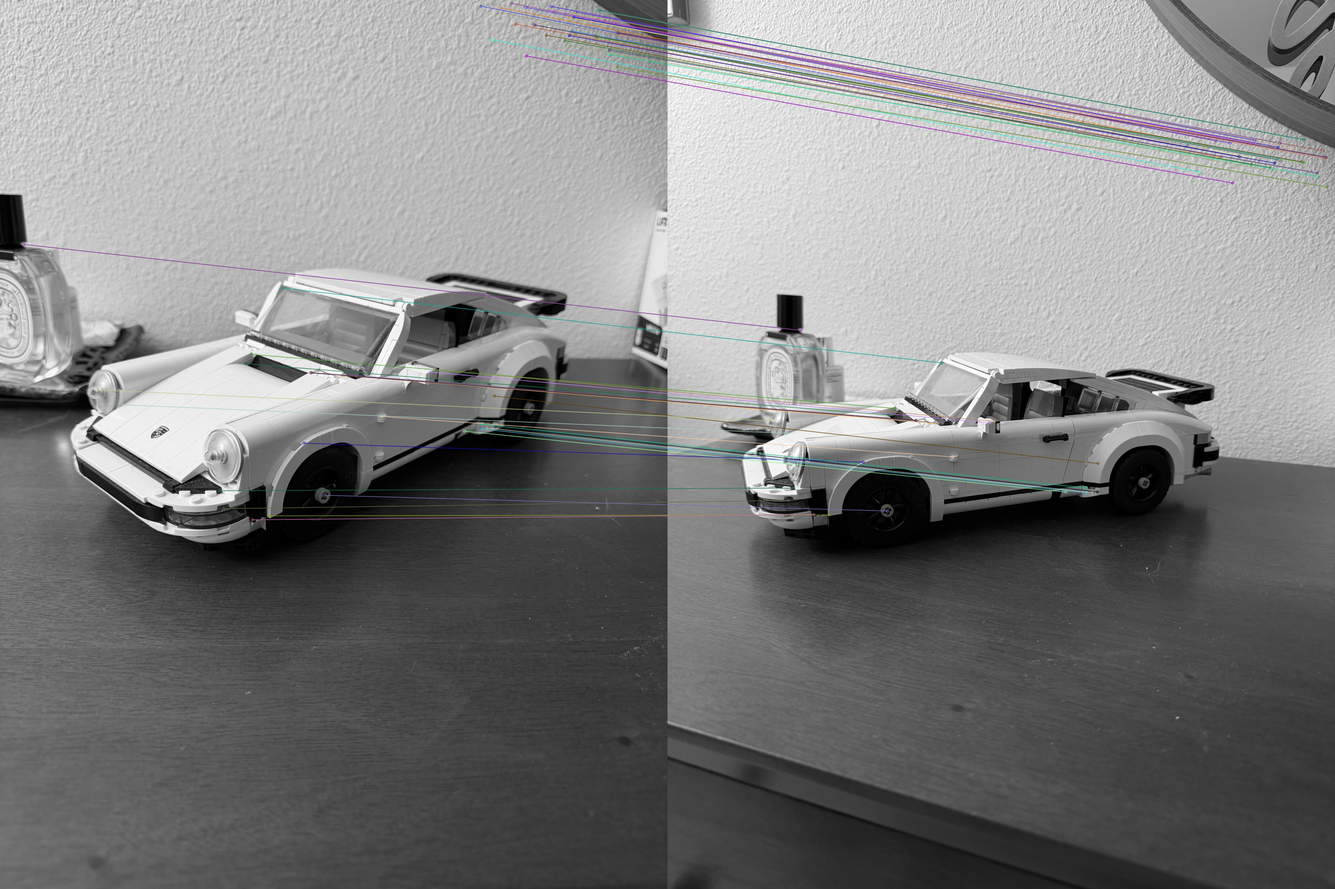
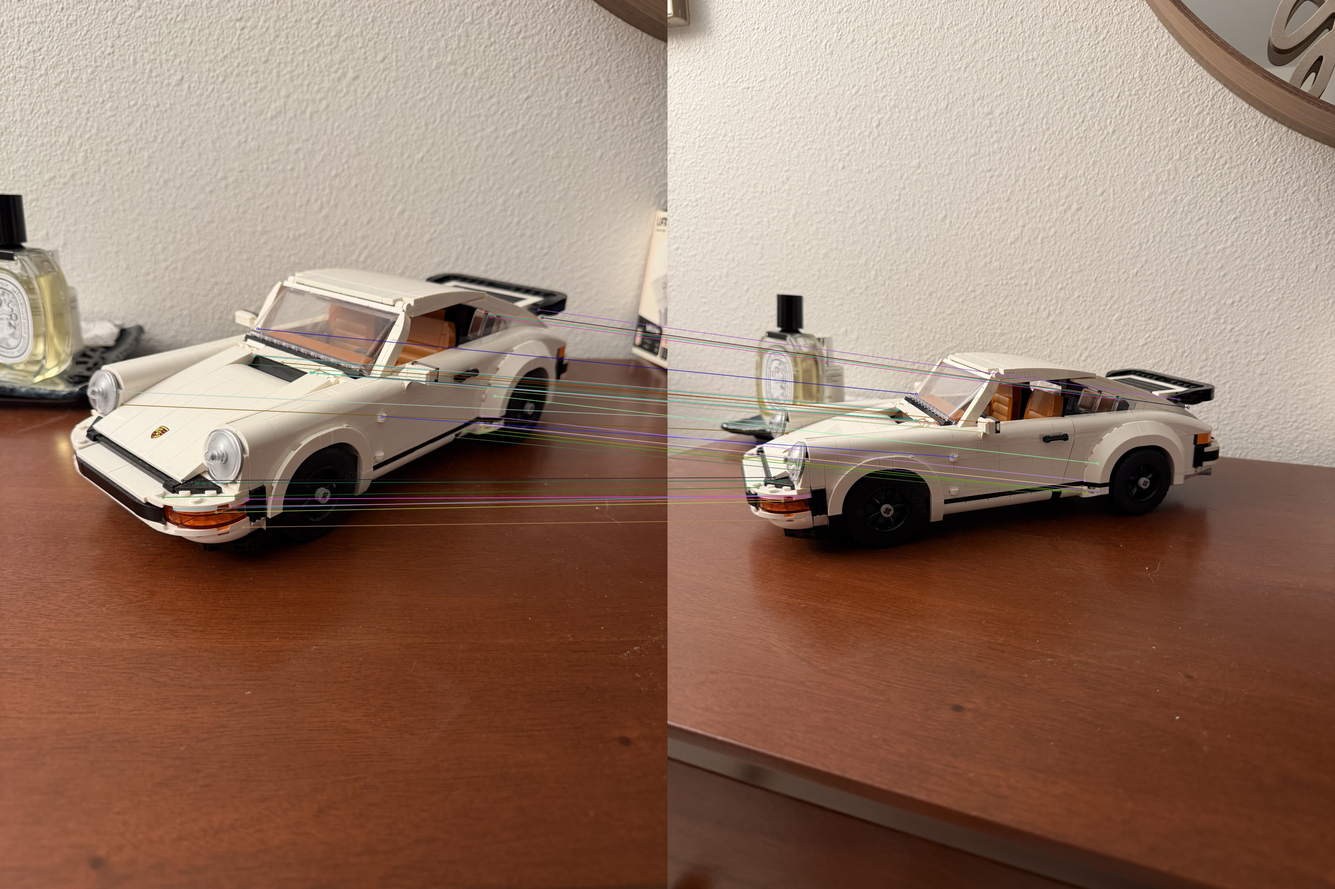
scaled down photos for processing time and refined parameters for tighter tolerances

diff --git a/src/feature_utils.cpp b/src/feature_utils.cpp
@@ -21,14 +21,46 @@ namespace code {
         cv::Mat& descriptors) {
         detector_->detectAndCompute(image, cv::noArray(), keypoints, descriptors);
 
-        // Sort by response (feature strength) and keep the best
+        // Apply spatial weighting to prioritize features in regions of interest
+        // This helps focus on foreground objects (like cars) rather than background (like walls)
         if (keypoints.size() > static_cast<size_t>(config_.max_features)) {
-            // Create indices sorted by response (descending)
+            float img_height = static_cast<float>(image.rows);
+            float img_width = static_cast<float>(image.cols);
+            float center_x = img_width * 0.5f;
+
+            // Compute weighted scores for each keypoint
+            std::vector<float> weighted_scores(keypoints.size());
+            for (size_t i = 0; i < keypoints.size(); ++i) {
+                const cv::KeyPoint& kp = keypoints[i];
+
+                // Vertical position weight: prioritize center and lower regions
+                // Upper 30% of image gets reduced weight (0.3x)
+                // Middle 40% gets full weight (1.0x)
+                // Lower 30% gets boosted weight (1.5x)
+                float vertical_weight = 1.0f;
+                float y_ratio = kp.pt.y / img_height;
+                if (y_ratio < 0.3f) {
+                    vertical_weight = 0.3f;  // Upper region (background/wall)
+                } else if (y_ratio < 0.7f) {
+                    vertical_weight = 1.0f;  // Middle region
+                } else {
+                    vertical_weight = 1.5f;  // Lower region (foreground objects)
+                }
+
+                // Horizontal position weight: slightly prioritize center
+                float dx = std::abs(kp.pt.x - center_x) / (img_width * 0.5f);
+                float horizontal_weight = 1.0f - 0.2f * dx;  // Center=1.0, edges=0.8
+
+                // Combined weighted score
+                weighted_scores[i] = kp.response * vertical_weight * horizontal_weight;
+            }
+
+            // Create indices sorted by weighted score (descending)
             std::vector<size_t> indices(keypoints.size());
             std::iota(indices.begin(), indices.end(), 0);
             std::sort(indices.begin(), indices.end(),
-                [&keypoints](size_t a, size_t b) {
-                    return keypoints[a].response > keypoints[b].response;
+                [&weighted_scores](size_t a, size_t b) {
+                    return weighted_scores[a] > weighted_scores[b];
                 });
 
             // Keep only the strongest features

diff --git a/src/main.cpp b/src/main.cpp
@@ -20,8 +20,13 @@ int main(int argc, char** argv) {
 
         // Load images
         code::logInfo("Loading images...");
-        cv::Mat img1 = cv::imread(argv[1], cv::IMREAD_GRAYSCALE);
-        cv::Mat img2 = cv::imread(argv[2], cv::IMREAD_GRAYSCALE);
+        cv::Mat img1_color = cv::imread(argv[1], cv::IMREAD_COLOR);
+        cv::Mat img2_color = cv::imread(argv[2], cv::IMREAD_COLOR);
+
+        // Convert to grayscale for SIFT (SIFT uses intensity gradients)
+        cv::Mat img1, img2;
+        cv::cvtColor(img1_color, img1, cv::COLOR_BGR2GRAY);
+        cv::cvtColor(img2_color, img2, cv::COLOR_BGR2GRAY);
 
         if (img1.empty() || img2.empty()) {
             code::logError("Cannot read images. Check file paths.");
@@ -39,11 +44,13 @@ int main(int argc, char** argv) {
         if (scale1 > max_scale) {
             double factor = max_scale / scale1;
             cv::resize(img1, img1, cv::Size(), factor, factor, cv::INTER_AREA);
+            cv::resize(img1_color, img1_color, cv::Size(), factor, factor, cv::INTER_AREA);
             code::logInfo("Resized image 1 to: " + std::to_string(img1.cols) + "x" + std::to_string(img1.rows));
         }
         if (scale2 > max_scale) {
             double factor = max_scale / scale2;
             cv::resize(img2, img2, cv::Size(), factor, factor, cv::INTER_AREA);
+            cv::resize(img2_color, img2_color, cv::Size(), factor, factor, cv::INTER_AREA);
             code::logInfo("Resized image 2 to: " + std::to_string(img2.cols) + "x" + std::to_string(img2.rows));
         }
 
@@ -100,7 +107,8 @@ int main(int argc, char** argv) {
             }
 
             cv::Mat img_matches;
-            cv::drawMatches(img1, kpts1, img2, kpts2, cv_matches, img_matches,
+            // Draw matches on color images for better visualization
+            cv::drawMatches(img1_color, kpts1, img2_color, kpts2, cv_matches, img_matches,
                 cv::Scalar::all(-1), cv::Scalar::all(-1),
                 std::vector<char>(), cv::DrawMatchesFlags::NOT_DRAW_SINGLE_POINTS);
 

diff --git a/include/config.h b/include/config.h
@@ -4,7 +4,7 @@ namespace code {
 
     struct Config {
         // Feature detection (A-SIFT)
-        int max_features = 3000;           // More features for better coverage
+        int max_features = 2000;           // Balanced for speed and coverage
         float contrast_threshold = 0.02f;  // Even lower for more candidates
         float edge_threshold = 15.0f;      // Higher to reject edge-like features
         float sigma = 1.6f;
@@ -19,22 +19,22 @@ namespace code {
         float final_threshold = 0.80f;    // Balanced for quality matches     
 
         // Bilateral clustering (Sec 2.2)
-        int num_clusters = 150;           // More clusters for finer detail
+        int num_clusters = 150;           // More clusters for finer detail (keeps wall suppression)
         double spatial_sigma = 1.5;       // Tighter spatial grouping (normalized space)
         double descriptor_sigma = 0.4;    // Tighter descriptor grouping
 
         // Coherence regression (Sec 3)
         double lambda = 0.5;              // Less regularization for more flexibility
         double huber_epsilon = 0.5;       // Larger for robustness to outliers
-        int max_iterations = 150;         // More iterations for convergence
-        double function_tolerance = 1e-7;
+        int max_iterations = 50;          // Faster convergence (reduced from 150)
+        double function_tolerance = 1e-6; // Slightly relaxed for speed
 
         // Decision boundaries (Sec 3)
         double likelihood_threshold = 0.50;  // More permissive for more candidates
         double spatial_threshold = 1.0;      // Balanced threshold     
 
         // Ceres solver
-        int num_threads = 4;
+        int num_threads = 8;              // Use more threads for parallelization
         bool use_nonmonotonic_steps = true;
     };
 
